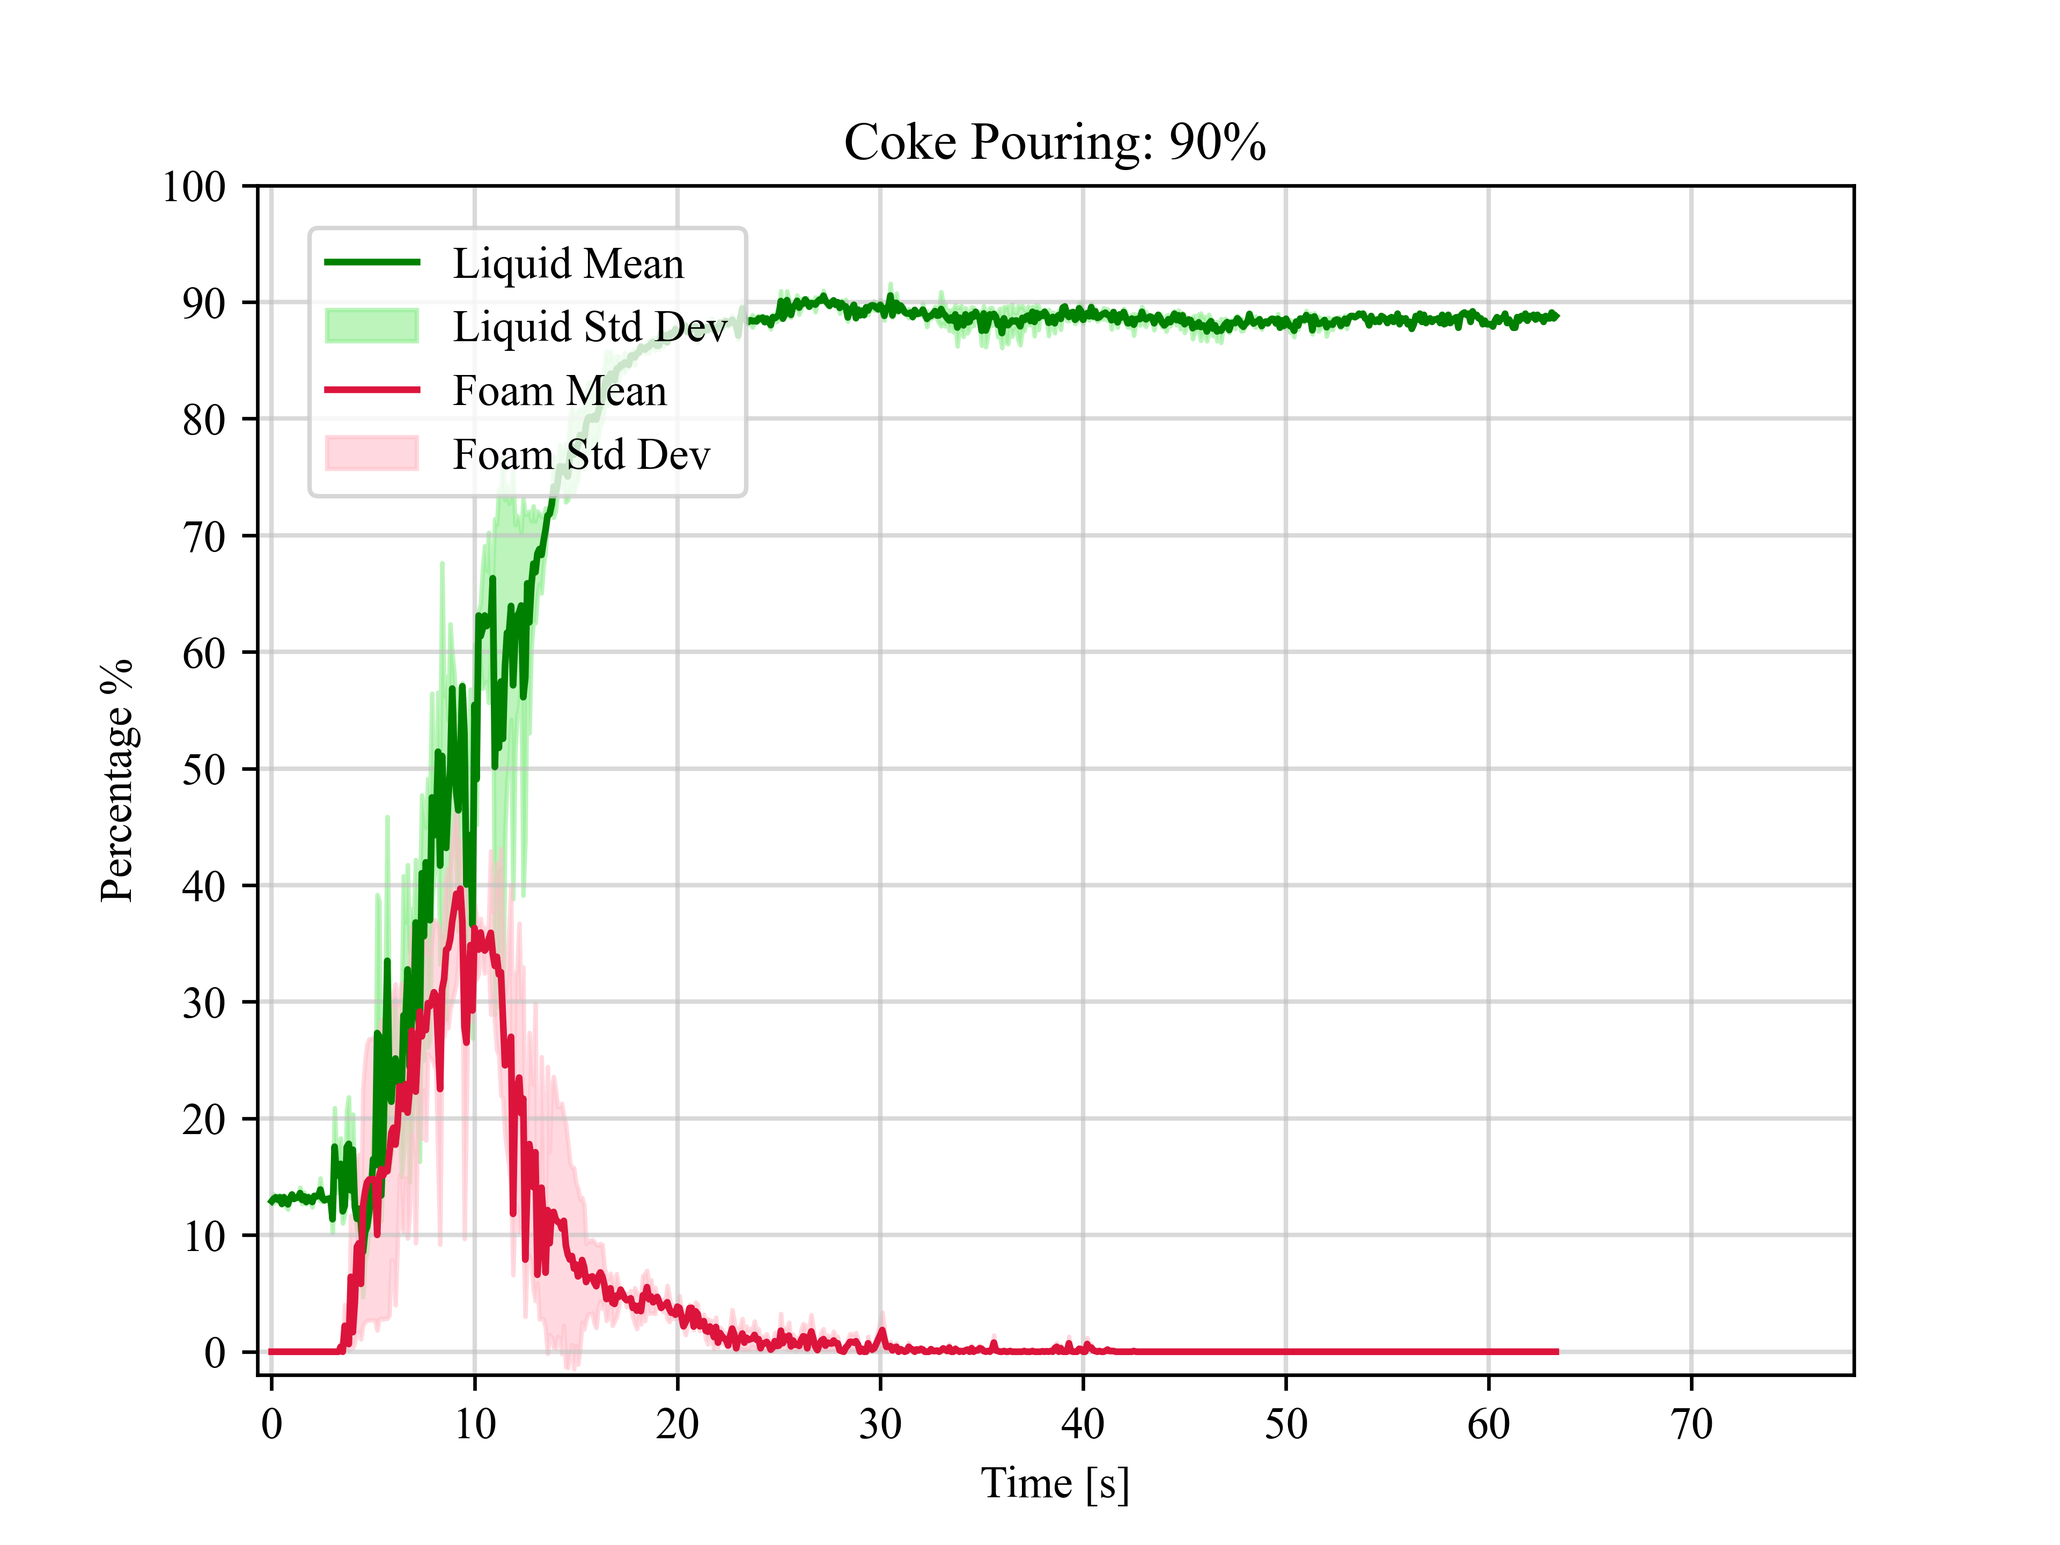
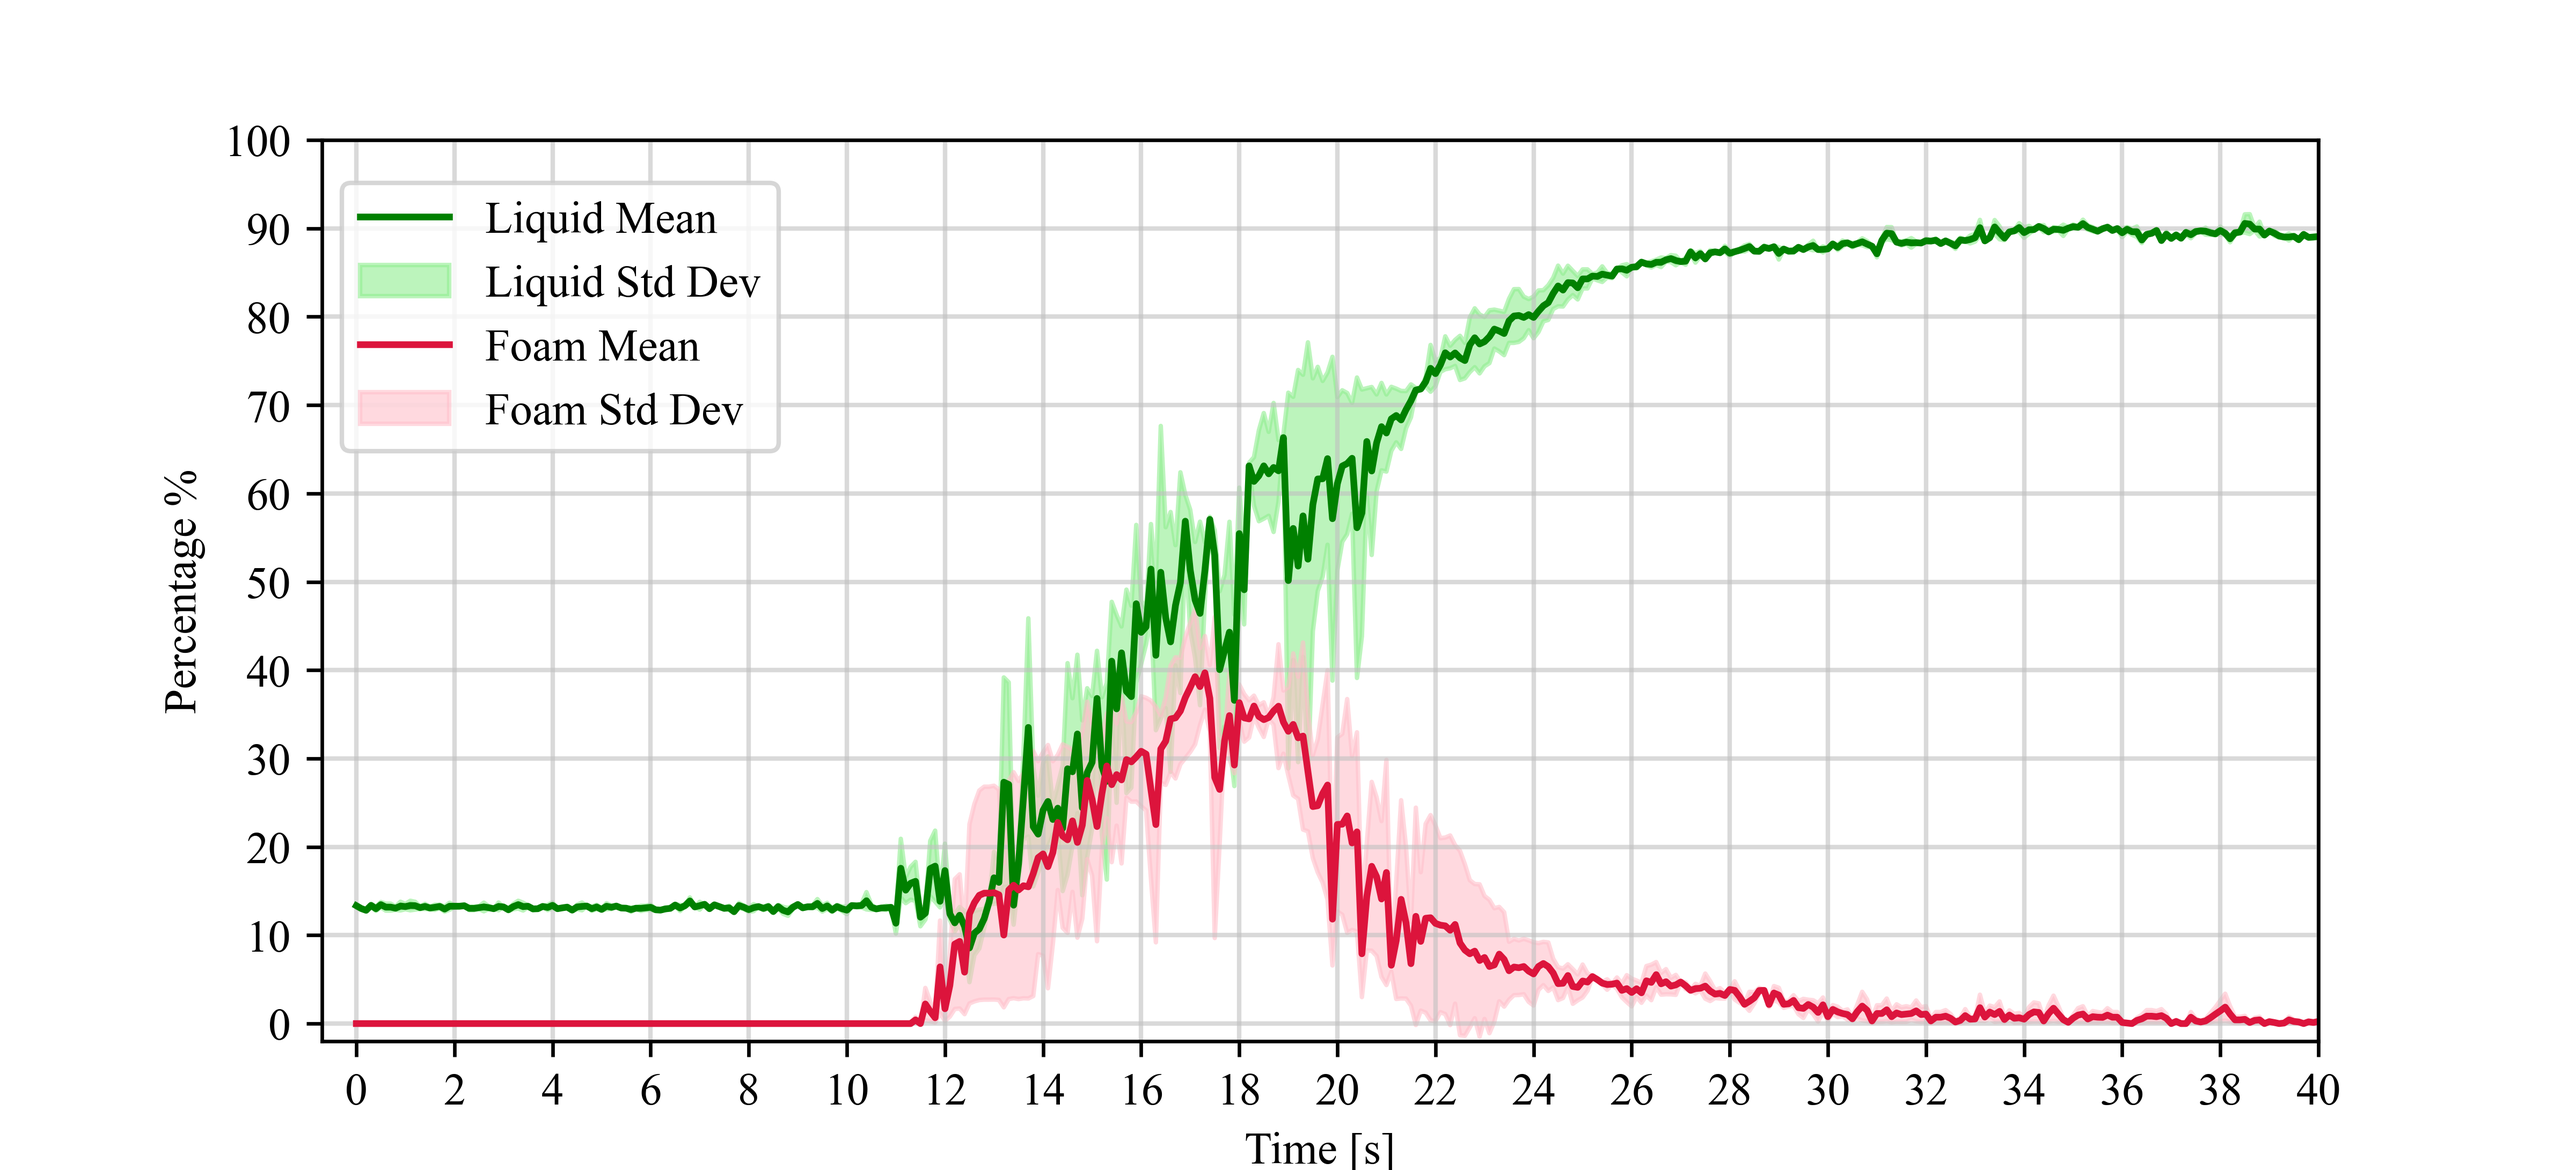
some changes

Changed region(s): [[0.0312, 0.0624, 0.9062, 0.9977], [0.0938, 0.0935, 0.125, 0.1247]]

diff --git a/data_visualizer_mean.py b/data_visualizer_mean.py
@@ -2,7 +2,6 @@ import matplotlib.pyplot as plt
 import csv
 import numpy as np
 from matplotlib.text import Text
-#import matplotlib as mpl
 
 #mpl.rcParams.update(mpl.rcParamsDefault)
 
@@ -31,7 +30,6 @@ def csv_opener(filename):
             if row[8] == 'True' and switch == True:
 
                 align_index = index
-                print('align_index is:', align_index)
                 switch = False
     
             index += 1   
@@ -49,7 +47,7 @@ def csv_opener(filename):
             
                 y_before = y_current
         
-        offset_factor = 100 # change for every %
+        offset_factor = 150 # change for every %
                 
         x = x[align_index - offset_factor :]
         y = y[align_index - offset_factor :]
@@ -64,7 +62,7 @@ def csv_opener(filename):
 def longest(y_big):
     return max(y_big, key=len)
     
-percent = 60
+percent = 90
 
 if percent == 30:
     x_1, y_1, y_1f = csv_opener('sorted/30/selected/Pouring_Data_2023-08-20 18-23-09.csv')
@@ -126,20 +124,12 @@ y_plotf, errorf, maxf, minf = tolerant_mean(y_bigf)
 # Define a custom font dictionary
 font2 = {'fontname': 'Times New Roman'}
 
-
-
-
-
 # Desired width-to-height ratio
-width_to_height_ratio = 1.618123  # For example, 16:9 ratio
+width_to_height_ratio = 2.2  # For example, 16:9 ratio
 
-# plt.rcParams.update({
-#     "text.usetex": True,
-#     "font.family": 'serif'
-# })
 fig, ax = plt.subplots(figsize=(8, 8 / width_to_height_ratio))    
     
-ax.set_xlim(-0.7,33)# use 57 for 30%, and 38 for other percentages
+ax.set_xlim(-0.7,40)# use 57 for 30%, and 38 for other percentages
 ax.set_ylim(-2,100)
 
 ax.grid(color='silver', linestyle='-', linewidth=1, alpha = 0.6)
@@ -154,13 +144,13 @@ ax.fill_between(np.arange(x_plot[0],x_plot[-1]+0.1, 0.1), y_plotf - errorf, y_pl
 for label in (ax.get_xticklabels() + ax.get_yticklabels()):
     label.set_fontname('Times New Roman')
 
-ax.set_xticks(np.arange(0, 35, 2), **font2) 
+ax.set_xticks(np.arange(0, 41, 2), **font2) 
 ax.set_yticks(np.linspace(0, 100, num=11), **font2)
 ax.set_xlabel("Time [s]", **font2)
 ax.set_ylabel("Percentage %", **font2)
-ax.set_title("Coke Pouring: " + str(percent) + "%", **font2)
+#ax.set_title("Coke Pouring: " + str(percent) + "%", **font2)
 
-ax.legend(prop={'family': 'Times New Roman'}, loc='lower right', bbox_to_anchor=(0.32,0.72))
+ax.legend(prop={'family': 'Times New Roman'}, loc='lower right', bbox_to_anchor=(0.24, 0.63))
 
 
 # Save and display the plot
